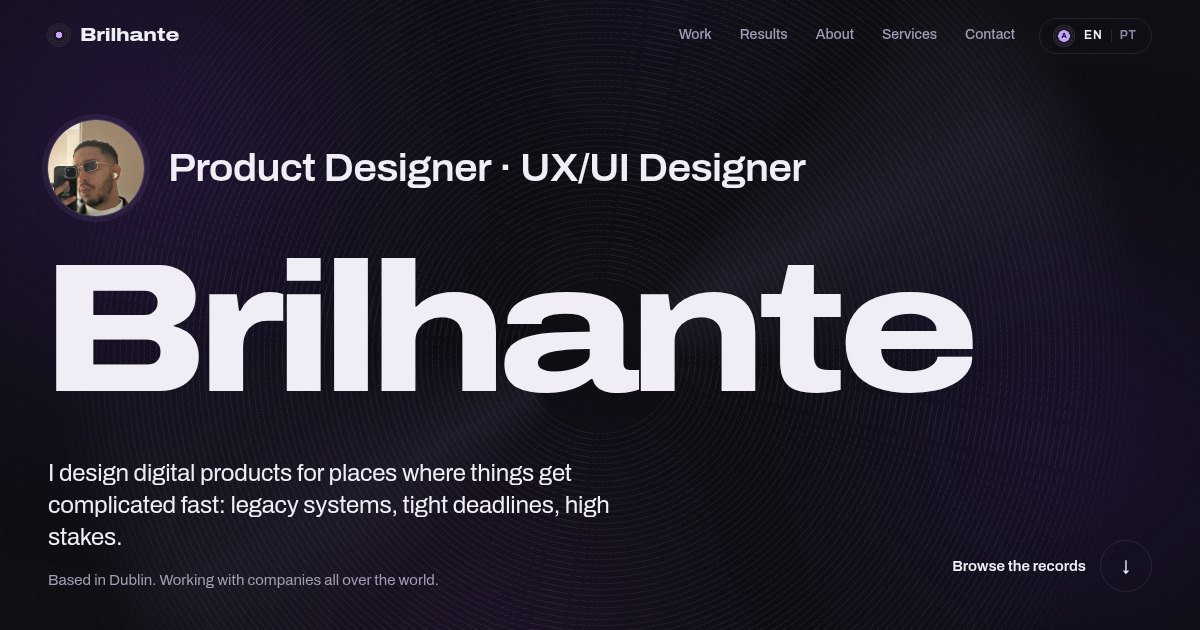
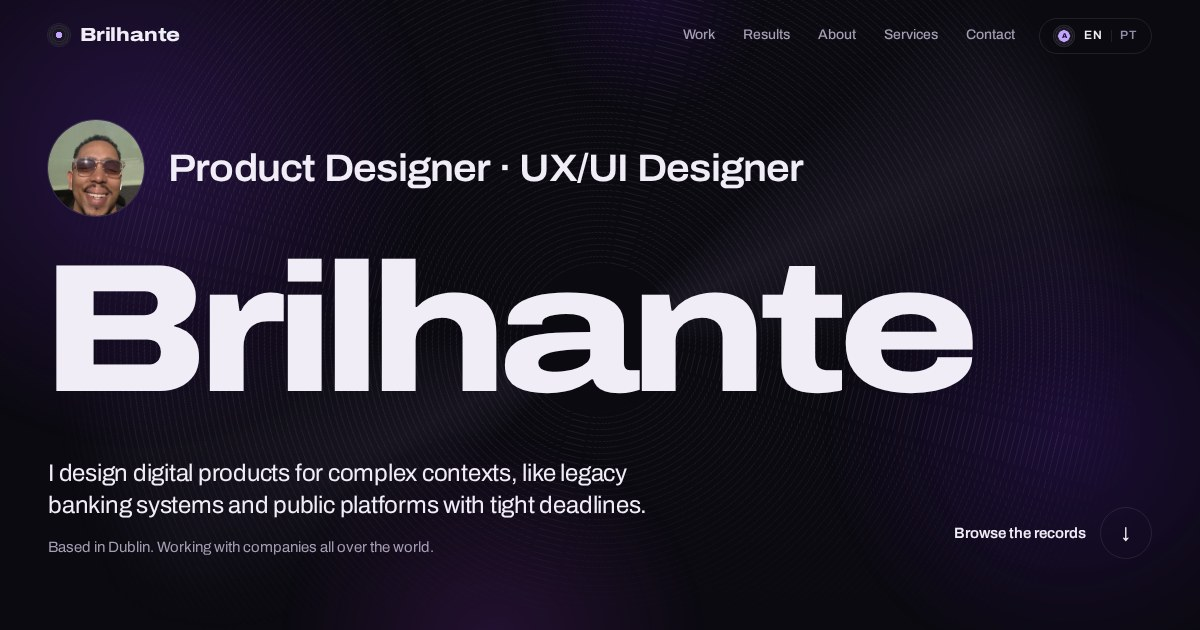
Replace portfolio photos
- New About photo (beanie, trees) and Contact photo (smiling selfie)
- Avatar cropped from the new selfie
- Alt texts updated in both languages
- Site share image regenerated from the current hero

Claude-Session: https://claude.ai/code/session_012SheouuZmZrbDEfXkRDrjx

diff --git a/src/data/i18n.ts b/src/data/i18n.ts
@@ -48,7 +48,7 @@ export const ui = {
         'I like the projects people usually find intimidating. A banking dashboard sitting on 100+ legacy products. A nonprofit site losing donors when nobody knows why. The kind of work where you have to dig before you can design anything.',
         'I moved to Dublin to be closer to that kind of challenge, in teams that treat design as more than a final coat of paint. When I’m not in Figma, I’m probably building some automation that saves me time later, or understanding that a feature doesn’t need to be as complicated as everyone thinks.',
       ],
-      photoAlt: 'João Victor Brilhante looking up under a tree in Dublin',
+      photoAlt: 'João Victor Brilhante in a white beanie and green scarf, in front of trees',
       experience: 'Experience',
       now: 'now',
     },
@@ -71,7 +71,7 @@ export const ui = {
       phone: 'WhatsApp',
       copy: 'Copy',
       copied: 'Copied',
-      photoAlt: 'João Victor Brilhante taking a mirror selfie',
+      photoAlt: 'João Victor Brilhante smiling in sunglasses',
     },
     footer: { top: 'Back to top', made: 'Designed by João Victor Brilhante' },
     project: {
@@ -142,7 +142,7 @@ export const ui = {
         'Gosto dos projetos que costumam intimidar as pessoas. Um dashboard bancário apoiado em mais de 100 produtos legados. O site de uma ONG perdendo doadores sem que ninguém saiba por quê. O tipo de trabalho em que é preciso cavar antes de desenhar qualquer coisa.',
         'Me mudei para Dublin para ficar mais perto desse tipo de desafio, em times que tratam design como mais do que uma camada de tinta no final. Quando não estou no Figma, provavelmente estou montando alguma automação que vai me poupar tempo depois, ou entendendo que uma funcionalidade não precisa ser tão complicada quanto todo mundo acha.',
       ],
-      photoAlt: 'João Victor Brilhante olhando para cima debaixo de uma árvore em Dublin',
+      photoAlt: 'João Victor Brilhante de gorro branco e cachecol verde, em frente a árvores',
       experience: 'Experiência',
       now: 'hoje',
     },
@@ -165,7 +165,7 @@ export const ui = {
       phone: 'WhatsApp',
       copy: 'Copiar',
       copied: 'Copiado',
-      photoAlt: 'João Victor Brilhante tirando uma selfie no espelho',
+      photoAlt: 'João Victor Brilhante sorrindo, de óculos escuros',
     },
     footer: { top: 'Voltar ao topo', made: 'Design de João Victor Brilhante' },
     project: {
